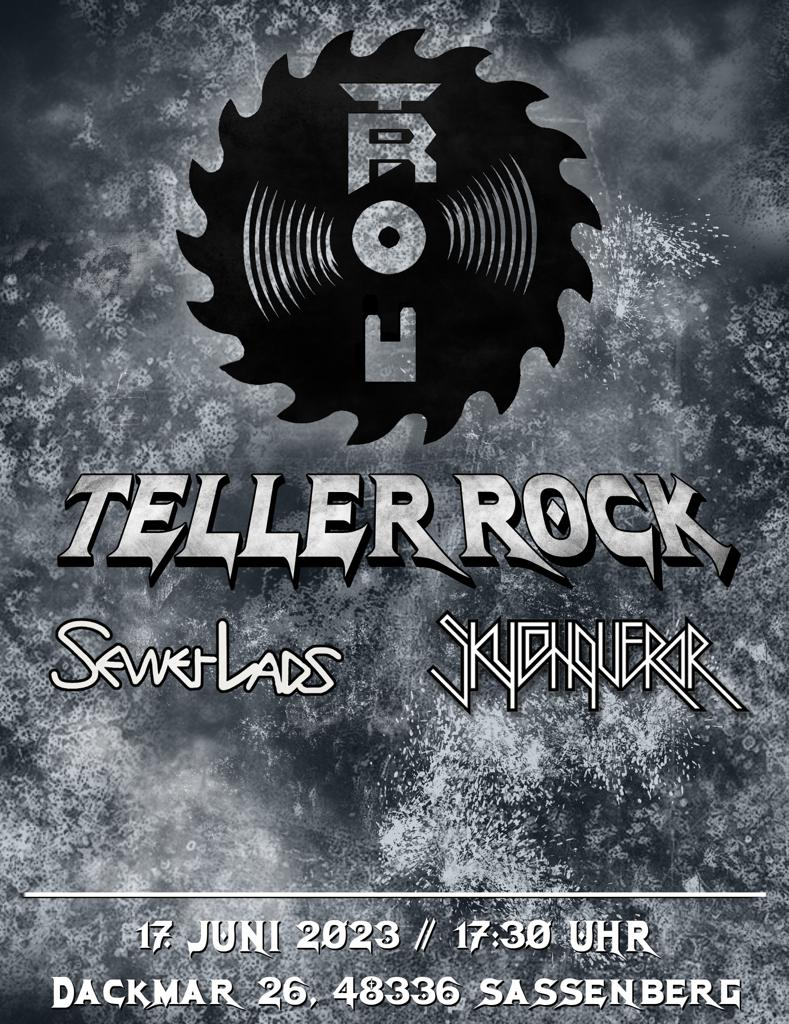
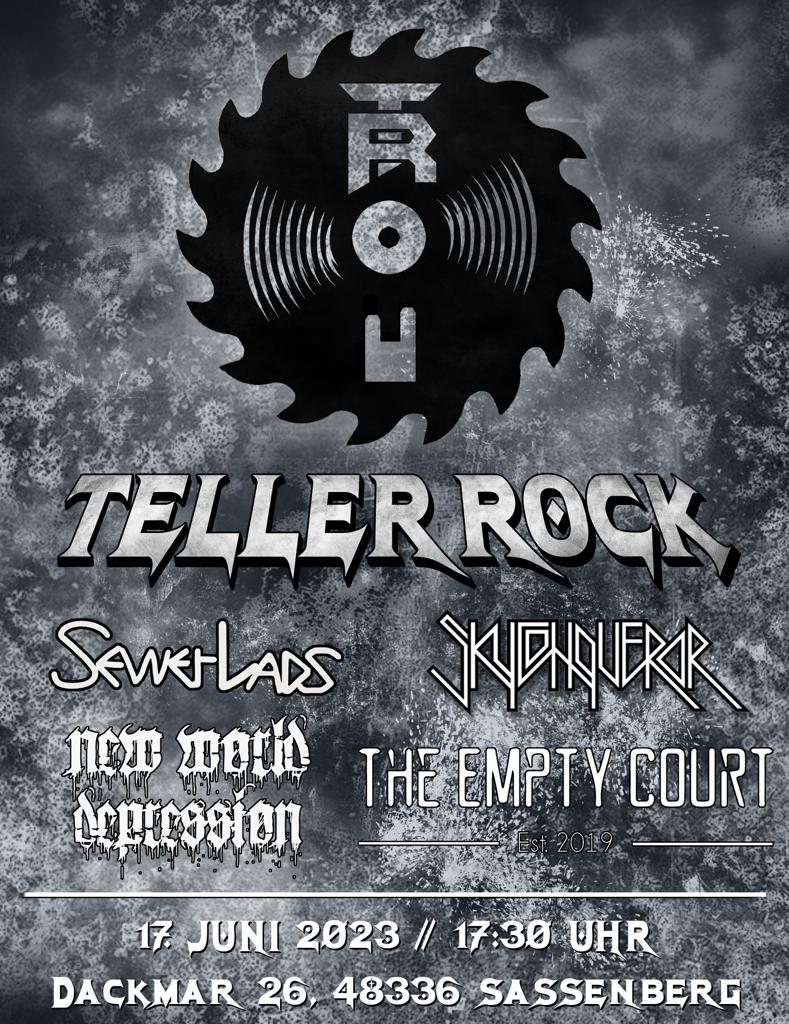
update some more gigs, replace flyer

Changed region(s): [[0.4563, 0.7188, 0.9734, 0.8438], [0.0608, 0.6875, 0.3954, 0.875]]

diff --git a/_gigs/2023-02-06-tellerrock-2023.md b/_gigs/2023-02-06-tellerrock-2023.md
@@ -5,11 +5,11 @@ title: Tellerrock, Sassenberg
 gig_date: 2023-06-17
 image: :SITE_URL:/img/tellerrock-2023.jpg
 bands:
+- New World Depression
 - Sewer Lads
+- The Empty Court
 ---
 
 Our friends from TELLERROCK festival have invited us to play there once again! Everyone who knows how to get the ticket, be quick to order one of those, since they are limited and have sold out within few days after presale has started.
-
-Lineup is not yet finalized, all we know is that [SEWER LADS] from Münster will join us playing there!
 
 *Please note that TELLERROCK is private invite only!*

diff --git a/_gigs/2008-08-23-burgfestival-lh.md b/_gigs/2008-08-23-burgfestival-lh.md
@@ -1,0 +1,15 @@
+---
+collection: gigs
+title: Burgfestival Open Air, Lüdinghausen
+gig_date: 2008-08-23
+bands:
+- Bubble Trouble
+- Earl Grey & The Tin Cups
+- Storksbergers Riesen
+- Medusa
+- Beckers Blues Band
+- Nerd Academy
+- 2feelgr8
+- Jano Akono
+- 5-4-Fun
+---

diff --git a/_gigs/2006-03-10-fate-and-destruction.md b/_gigs/2006-03-10-fate-and-destruction.md
@@ -1,0 +1,8 @@
+---
+collection: gigs
+title: Fate & Destruction Dreh, Lüdinghausen
+gig_date: 2006-03-10
+---
+Dreh zum Film "Fate And Destruction"
+
+im Castle Of Rock

diff --git a/_gigs/2010-10-08-tribute.md b/_gigs/2010-10-08-tribute.md
@@ -1,0 +1,8 @@
+---
+collection: gigs
+title: Tribute Party, Münster
+gig_date: 2010-10-08
+image: :SITE_URL:/img/2010-08-10-tribute.jpg
+bands:
+- Mighty Evil
+---

diff --git a/_gigs/2008-08-23-area-666-lh.md b/_gigs/2008-08-23-area-666-lh.md
@@ -1,0 +1,8 @@
+---
+collection: gigs
+title: Area 666, Lüdinghausen
+gig_date: 2008-08-23
+bands:
+- Sabiendas
+---
+Festhalle Altenbockum

diff --git a/_gigs/2006-05-01-gsj-greven.md b/_gigs/2006-05-01-gsj-greven.md
@@ -1,0 +1,7 @@
+---
+collection: gigs
+title: GSJ, Greven
+gig_date: 2006-05-01
+bands:
+- New World Depression
+---

diff --git a/_gigs/2009-02-13-konzert.md b/_gigs/2009-02-13-konzert.md
@@ -1,0 +1,5 @@
+---
+collection: gigs
+title: Konzert, Lippstadt
+gig_date: 2009-02-13
+---
